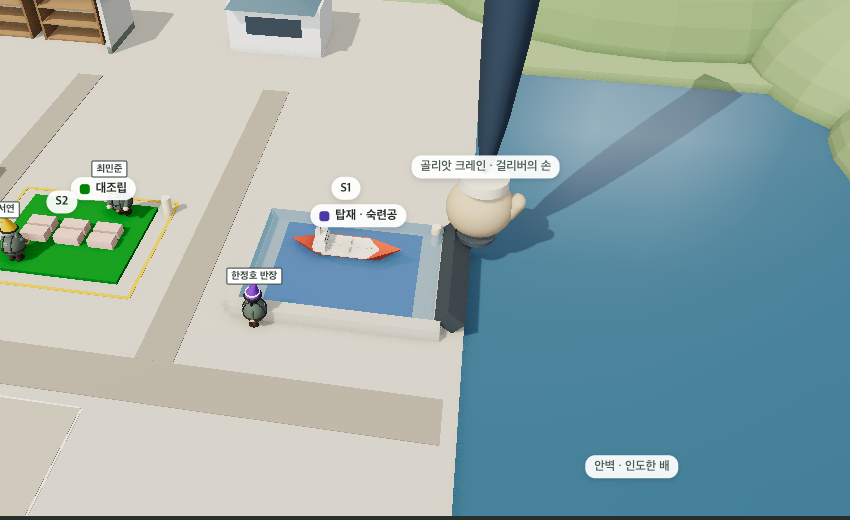
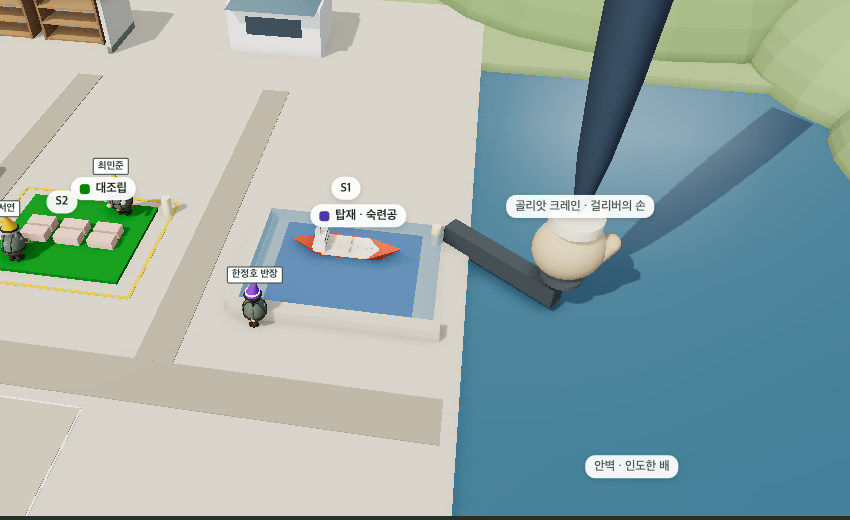
fix: 진수 때 도크 문을 현관문처럼(왼쪽 경첩, 손이 오른쪽 끝을 밀어 엶)

diff --git a/ui/src/scene/yard.ts b/ui/src/scene/yard.ts
@@ -32,6 +32,7 @@ const unitDepth = (unit: number) => (unit === 0 ? MAT_D : MAT2_D);
 // ④ 배가 나가고 ⑤ 문을 닫고 ⑥ 물을 뺀다. 그동안 다음 블록은 도크 앞에서 기다린다. 값은 하루 안의 비율(frac).
 const LAUNCH = { fill: [0.1, 0.28], open: [0.28, 0.4], sail: [0.4, 0.62], close: [0.62, 0.74], drain: [0.74, 0.86] } as const;
 const LAUNCH_END = 0.86;
+const DOOR_OPEN = Math.PI * 0.47;   // 문이 거의 직각으로 열린다
 const WATER_TOP = 0.32;
 const phase = (frac: number, [a, b]: readonly [number, number]) => clamp01((frac - a) / (b - a));
 // 샛길 자리: 소조립 왼쪽, 그리고 이웃한 공정의 작업장 사이 가운데(벽·구획선·도크를 피한다)
@@ -1011,7 +1012,7 @@ export class Yard {
       dock.water.scale.y = Math.max(0.01, level * WATER_TOP);
       dock.water.position.y = (level * WATER_TOP) / 2;
       const open = on ? phase(frac, [LAUNCH.open[0] + 0.05, LAUNCH.open[1]]) * (1 - phase(frac, [LAUNCH.close[0], LAUNCH.close[1] - 0.05])) : 0;
-      dock.hinge.rotation.z = ease(open) * 1.35;   // 아래쪽이 바다 쪽으로 들린다
+      dock.hinge.rotation.y = ease(open) * DOOR_OPEN;   // 오른쪽 끝이 바다 쪽으로 밀려 열린다(현관문)
     });
   }
 
@@ -1022,9 +1023,10 @@ export class Yard {
     const go = phase(frac, [LAUNCH.fill[1] - 0.06, LAUNCH.open[0] + 0.04]);
     const back = phase(frac, [LAUNCH.close[1] - 0.02, LAUNCH.close[1] + 0.08]);
     const k = ease(go) * (1 - ease(back));
-    const open = ease(phase(frac, [LAUNCH.open[0] + 0.05, LAUNCH.open[1]]) * (1 - phase(frac, [LAUNCH.close[0], LAUNCH.close[1] - 0.05]))) * 1.35;
-    // 문짝 아래 끝(열린 각도를 따라 바다 쪽으로 올라간다)의 뒤쪽 모서리를 손바닥 자석판이 잡는다(배가 나가는 길을 가리지 않게)
-    const at = new THREE.Vector3(dock.x1 + 0.2 + Math.sin(open) * 0.5, 0.45 - Math.cos(open) * 0.5 + 0.35, dock.zc - dock.zHalf + 0.35);
+    const open = ease(phase(frac, [LAUNCH.open[0] + 0.05, LAUNCH.open[1]]) * (1 - phase(frac, [LAUNCH.close[0], LAUNCH.close[1] - 0.05]))) * DOOR_OPEN;
+    // 문짝의 오른쪽(경첩 반대) 끝을 손바닥 자석판이 잡고 바다 쪽으로 돌려 연다. 열린 문은 배 왼쪽으로 비켜 있다.
+    const len = dock.zHalf * 2 - 0.3;
+    const at = new THREE.Vector3(dock.x1 + 0.25 + Math.sin(open) * len, 0.62, dock.zc - dock.zHalf + Math.cos(open) * len);
     return k > 0.001 ? { at, k } : null;
   }
 

diff --git a/ui/src/scene/coast.ts b/ui/src/scene/coast.ts
@@ -126,11 +126,13 @@ export function buildDock(x0: number, x1: number, z0: number, z1: number): THREE
   rim(x1 - x0, 0.3, (x0 + x1) / 2, z0);
   rim(x1 - x0, 0.3, (x0 + x1) / 2, z1);
   rim(0.3, z1 - z0, x0, (z0 + z1) / 2);
-  // 바다 쪽 문(캐슨): 어두운 강철 문짝. 위쪽 모서리를 축으로 아래쪽이 바다 쪽으로 열린다(진수, 그림만).
+  // 바다 쪽 문(캐슨): 어두운 강철 문짝. 현관문처럼 열린다(진수, 그림만): 나가는 배의 왼쪽(−z) 끝이 세로 경첩이고,
+  // 오른쪽(+z) 끝을 걸리버의 손이 잡아 바다 쪽(+x)으로 민다.
+  const span = z1 - z0 - 0.3;
   const hinge = new THREE.Group();
-  hinge.position.set(x1, 0.45, (z0 + z1) / 2);
-  const gate = mesh(new THREE.BoxGeometry(0.4, 0.5, z1 - z0 - 0.3), "#4e5a63", { metalness: 0.3, roughness: 0.6 });
-  gate.position.set(0, -0.25, 0);
+  hinge.position.set(x1, 0, (z0 + z1) / 2 - span / 2);
+  const gate = mesh(new THREE.BoxGeometry(0.4, 0.5, span), "#4e5a63", { metalness: 0.3, roughness: 0.6 });
+  gate.position.set(0, 0.2, span / 2);
   hinge.add(gate);
   g.add(hinge);
   // 도크 안 물: 진수 때만 차오른다

diff --git a/CHANGELOG.md b/CHANGELOG.md
@@ -25,7 +25,7 @@
 - 새 분기 "수주 급증"(8척, 난이도 3, D31): 무관리 F 19.4 / 관리 A 99.0 / 기준선 C 54.5
 - 균형 점검에 작업장 3·나눠 하기. 엔진 테스트 57개(3.0 규칙 10개 포함)
 - 간트: 나눠 한 날은 막대를 작업장 수만큼 가로 줄로 나눠, 줄마다 그 작업장의 상태(작업은 공정 색, 짝 대기는 회색 빗금, 인력 대기 등 손실색)를 그린다. 나눠 하기를 쓰는 분기만 범례에 "짝 대기". 투입 사건은 배마다 하나, 나눠 들어가면 `units`(작업장 목록)와 "1·2·3호에 나눠"
-- 현장 진수 장면(그림만): 인도 다음 날, 1배속 재생 중 하루 안에 ① 탑재 작업자가 도크 밖으로 ② 도크에 물 ③ 걸리버의 손이 바다 쪽 문(위가 축, 아래가 열림)을 연다 ④ 배가 문으로 나가 바다 제자리로 ⑤ 문 닫기 ⑥ 물 빼기. 그동안 다음 블록은 도크 앞에서 기다린다. 엔진 규칙·일정은 그대로(`frame.ts`의 `launches`)
+- 현장 진수 장면(그림만): 인도 다음 날, 1배속 재생 중 하루 안에 ① 탑재 작업자가 도크 밖으로 ② 도크에 물 ③ 걸리버의 손이 바다 쪽 문을 현관문처럼 연다(나가는 배의 왼쪽 끝이 세로 경첩, 손이 오른쪽 끝을 바다 쪽으로 민다) ④ 배가 문으로 나가 바다 제자리로 ⑤ 문 닫기 ⑥ 물 빼기. 그동안 다음 블록은 도크 앞에서 기다린다. 엔진 규칙·일정은 그대로(`frame.ts`의 `launches`)
 - 생산계획서 분기 포스트잇에 "새로 쓸 수 있는 것"(시나리오 `unlocks`)
 - 분기별 옵션(D33): 기본 분기는 인력 일반·숙련공, 공법 표준·속성만(로봇·신공법·저가 자재·증설·나눠 하기 없음), 수주 증가는 모든 4M과 작업장 2개까지, 수주 급증은 작업장 3개·나눠 하기까지. 시나리오 `options`로 생산계획서가 가린 옵션을 그리지 않고, 엔진이 그 밖의 옵션을 쓴 설정을 거절한다(서버의 실행·저장도). 규칙 검증 테스트는 잠금을 푼 분기로 돈다. 엔진 테스트 61개
 - 화면(D32): 공정 카드에 작업장 1~3개와 나눠 하기(탑재 제외). 현장 3D와 작업 현황 전경에 작업장 세 줄(1호 앞, 3호 뒤), 큰길에서 공정 사이로 들어가는 샛길(2호·3호 블록은 샛길로 드나듦), 큰길 건너편 공용 적치장(공정별 칸: 대기·짝 대기·운반 대기 블록, 탑재 예외). 나눠 하는 배는 부분마다 자기 작업장에 블록을 나눠 그린다. 물류창고·연구소는 한 줄 뒤로

diff --git a/CLAUDE.md b/CLAUDE.md
@@ -118,7 +118,7 @@ Node는 Homebrew로 설치했다(v26).
   선종별 배 모양(2.1, `src/scene/ships.ts`): 접힌 선체 + 갑판 + 선종별 구조물(VLCC 배관, 컨테이너 상자, LNG 탱크 4개) + 선미 선실. 탑재 마지막 1/4에 구조물이 하나씩 붙는다. 2D 작업 현황 전경도 같은 선종 실루엣(`cctv.ts`의 `ship`).
   소조립은 절단 공정이기도 하다(옛 재단 자리): 소인이 칼을 들고, 자투리 종잇조각이 튀고, 정반 라벨에 "절단 중". 그림만 그렇고 규칙은 같다.
   증설(2.0): 2호 정반은 1호 바로 뒤(`UNIT2_Z`)에 "2호" 팻말과 함께, 로트와 소인은 자기 작업장에. 인력이 로봇인 공정은 소인 대신 회색 로봇 팔(일할 때 움직임). 걸리버의 손(크레인)은 1호 탑재만 따라간다.
-  진수(그림만): 인도 다음 날 재생 중에만 하루 안에 작업자 퇴장 → 도크 물 채움 → 걸리버 손이 문(위 축, 아래 열림) 열기 → 출항 → 닫기 → 물 빼기(`LAUNCH` 비율, `frame.ts`의 `launches`). 다음 블록은 그동안 도크 앞에서 기다린다. 멈춰 있으면 끝난 모습.
+  진수(그림만): 인도 다음 날 재생 중에만 하루 안에 작업자 퇴장 → 도크 물 채움 → 걸리버 손이 문을 현관문처럼 열기(배의 왼쪽 끝이 세로 경첩, 오른쪽 끝을 손이 바다 쪽으로) → 출항 → 닫기 → 물 빼기(`LAUNCH` 비율, `frame.ts`의 `launches`). 다음 블록은 그동안 도크 앞에서 기다린다. 멈춰 있으면 끝난 모습.
   원인별 모습: 쉬는 사람은 대기소에 앉음, 고장은 연기, 사고는 통제 테이프, 잔업은 촛불, 빈 선반은 "입고 D-n", 손실은 로트 위 칩(색 + 글자).
 - `src/scene/people.ts`: 소인(2.1: 정원 노움 모습, 고깔모자, 하네스). 고깔모자 색으로 작업자·시니어(흰 띠)·관리자(조끼, 태블릿)를 구분한다.
   현장은 실사 쪽(D24): 환경광(`RoomEnvironment`), GTAO(구석 그늘, `EffectComposer`), 외곽선 없음. 사람마다 피부색·수염과 머리·체격, 가상 이름표(공정 가까이 볼 때만, 관리자 = 서명 닉네임).
